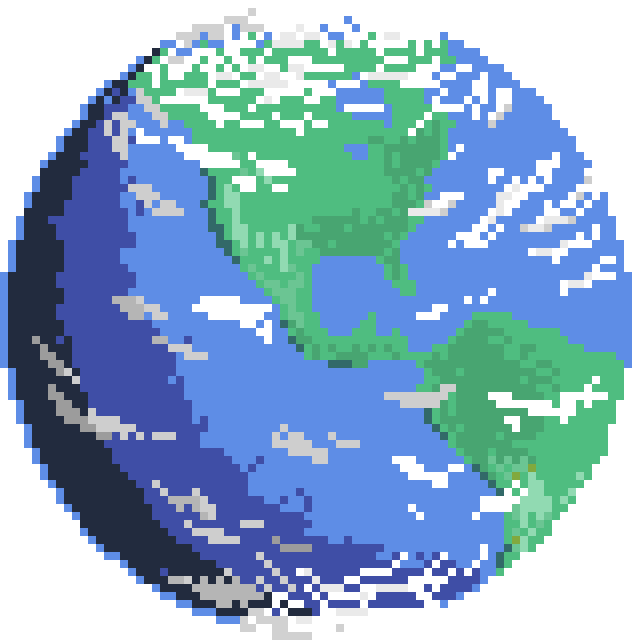
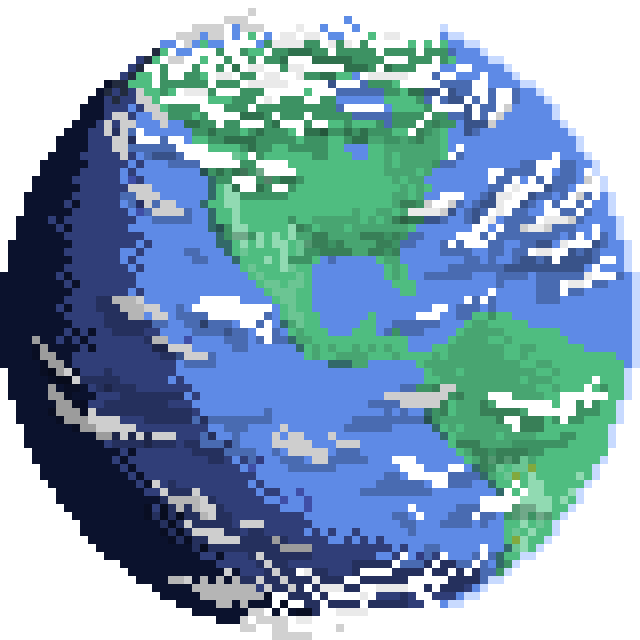
sketch: update the earth design

diff --git a/sketches/astronauts-in-space/src/graphics/astronaut.ts b/sketches/astronauts-in-space/src/graphics/astronaut.ts
@@ -22,9 +22,10 @@ export interface AstronautGraphic {
 }
 
 const ORBIT_SPEED = 1 // 2 minutes for one orbit
-const ORBIT_SIZE = 225
+const ORBIT_SIZE = 200
 const ASTRONAUT_HEIGHT = 64 // px
 const ASTRONAUT_WIDTH = 38 // px
+const ASTRONAUT_SIZE_SCALE = 0.8
 const ASTRONAUT_SUIT: { [key: string]: string } = {
     ISS: '/astronauts/assets/astronaut-iss.png',
     Tiangong: '/astronauts/assets/astronaut-tiangong.png'
@@ -40,15 +41,14 @@ async function createAstronautGraphic(astronaut: Astronaut) {
     const pos = createCenterPosition()
     const sprite = new Sprite(texture)
     sprite.anchor.set(0.5)
-    sprite.height = ASTRONAUT_HEIGHT
-    sprite.width = ASTRONAUT_WIDTH
+    sprite.height = ASTRONAUT_HEIGHT * ASTRONAUT_SIZE_SCALE
+    sprite.width = ASTRONAUT_WIDTH * ASTRONAUT_SIZE_SCALE
     sprite.x = pos.x
     sprite.y = pos.y
     sprite.alpha = 0
     sprite.eventMode = 'static'
     sprite.cursor = 'pointer'
     sprite.label = `Astronaut: ${astronaut.name}`
-    // sprite.scale = ASTRONAUT_SIZE_SCALE
 
     return sprite
 }

diff --git a/sketches/astronauts-in-space/src/graphics/earth.ts b/sketches/astronauts-in-space/src/graphics/earth.ts
@@ -13,7 +13,7 @@ export async function createEarth() {
     sprite.zIndex = 200
     sprite.anchor.set(0.5)
     sprite.position.set(globalThis.innerWidth / 2, globalThis.innerHeight / 2)
-    sprite.scale.set(0.3)
+    sprite.scale.set(0.25)
 
     spriteFadeIn(sprite)
 
